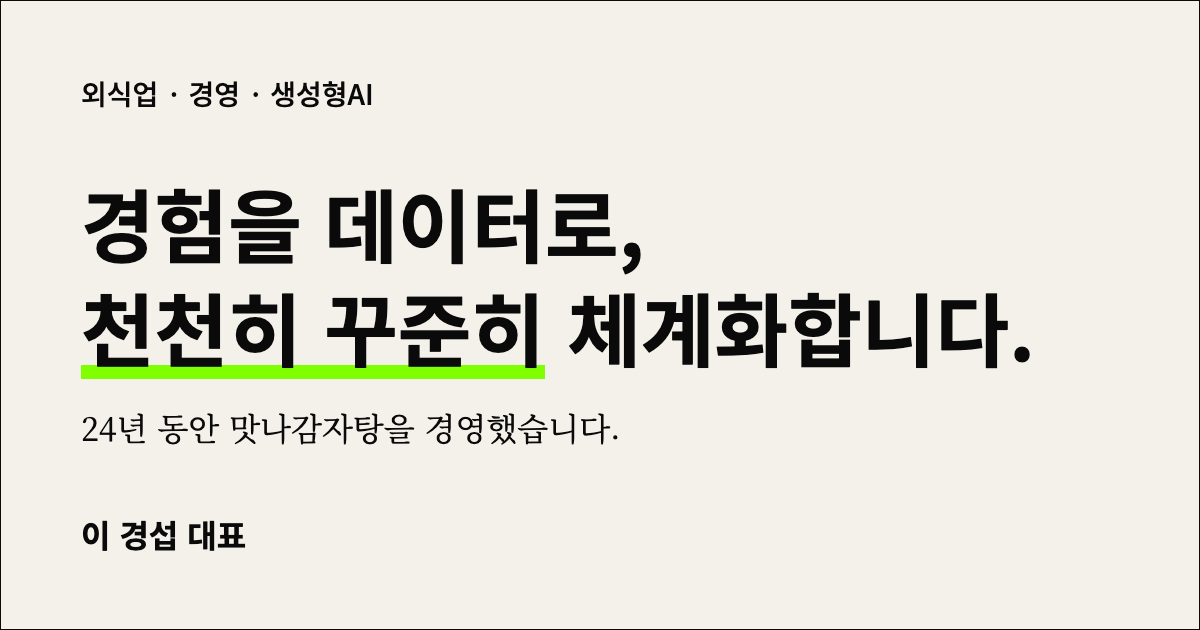
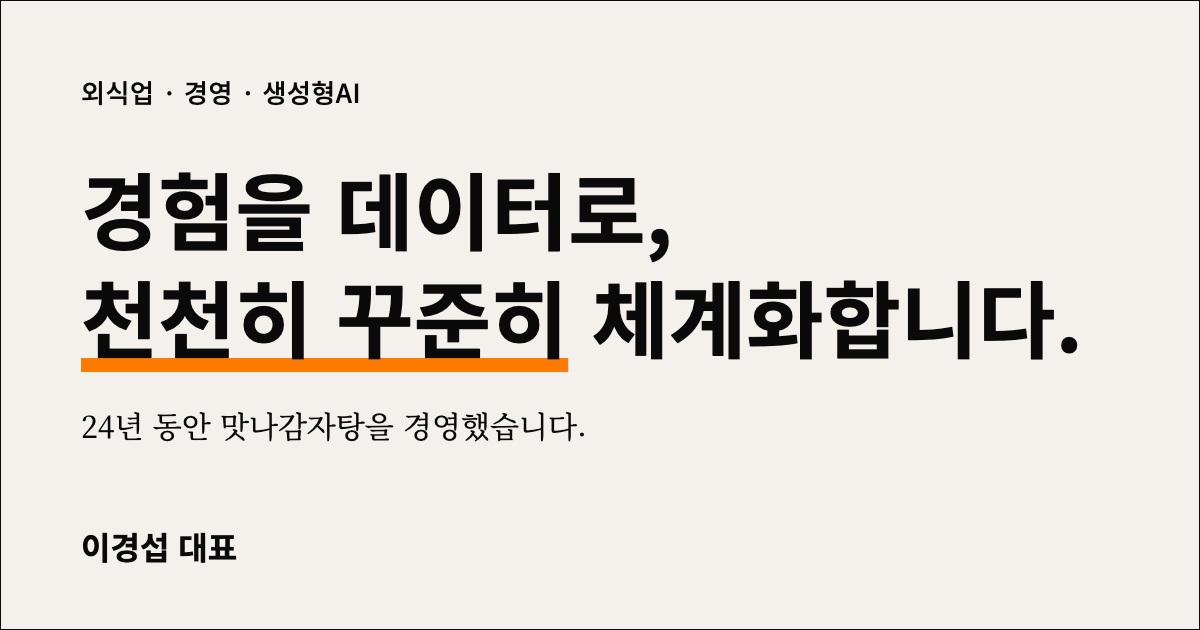
공유 미리보기 이미지를 새 색과 이름으로 다시 만들고 og 태그 추가

diff --git a/index.html b/index.html
@@ -10,7 +10,13 @@
 <meta property="og:site_name" content="이경섭 대표">
 <meta property="og:title" content="이경섭 대표 | 외식업 경영, 생성형AI와 데이터로 돕습니다">
 <meta property="og:description" content="24년 동안 맛나감자탕을 경영한 이경섭 대표가 외식업 사장님의 경영 문제를 생성형AI와 데이터로 함께 풉니다.">
-<meta name="twitter:card" content="summary">
+<meta property="og:image" content="https://raw.githubusercontent.com/LEE-KYUNGSUB/personal-homepage/main/og-image.png">
+<meta property="og:image:type" content="image/png">
+<meta property="og:image:width" content="1200">
+<meta property="og:image:height" content="630">
+<meta property="og:image:alt" content="경험을 데이터로, 천천히 꾸준히 체계화합니다. 이경섭 대표">
+<meta name="twitter:card" content="summary_large_image">
+<meta name="twitter:image" content="https://raw.githubusercontent.com/LEE-KYUNGSUB/personal-homepage/main/og-image.png">
 <link rel="preconnect" href="https://fonts.googleapis.com">
 <link rel="preconnect" href="https://fonts.gstatic.com" crossorigin>
 <link href="https://fonts.googleapis.com/css2?family=Noto+Sans+KR:wght@500;700&family=Noto+Serif+KR:wght@400&display=swap" rel="stylesheet">
